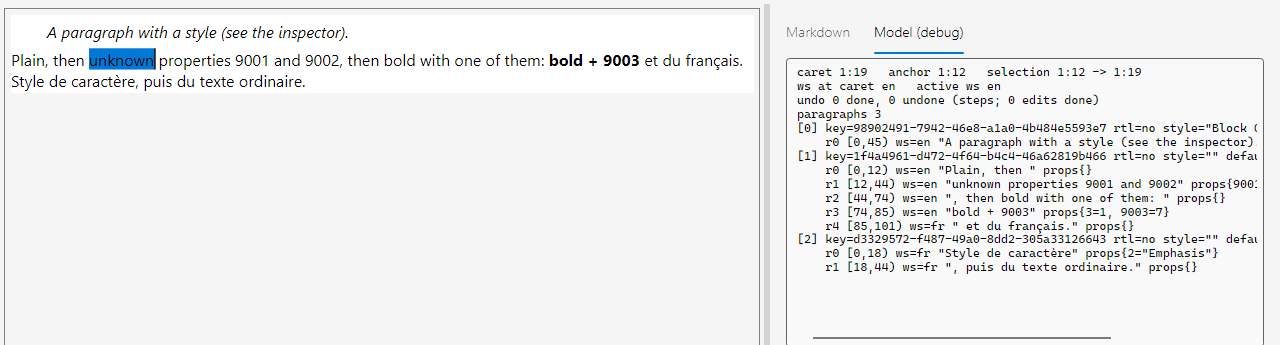
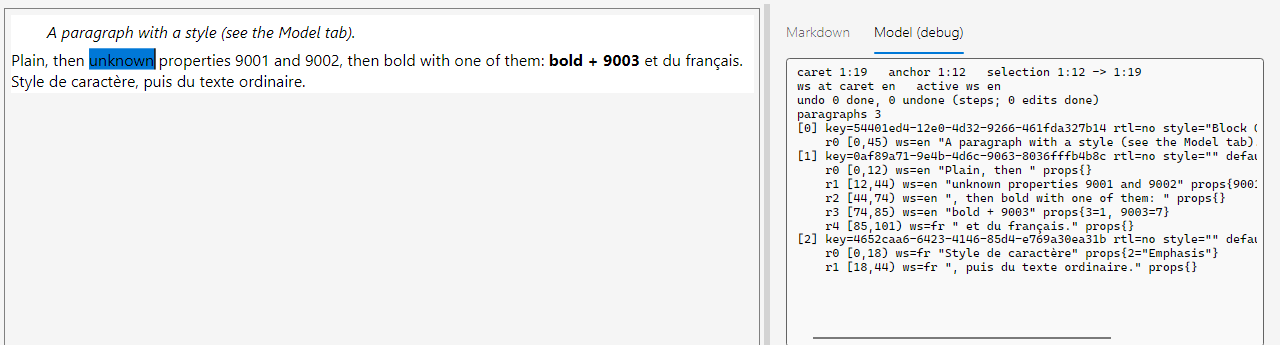
The manual tests, scenario texts and screenshot captions name the Markdown and Model tabs instead of the inspector.

diff --git a/docs/manual-testing.md b/docs/manual-testing.md
@@ -5,7 +5,7 @@ applications' clipboards and focus handoff in a real WinForms form. A person doe
 shared sample UI that all three hosts show. It is meant for a tester who has not seen the code.
 
 Write **PASS** or **FAIL** in the Result column of every step you do, and put what you saw in Notes when it differs
-from Expected. A step you could not do is **SKIP** with the reason. Copy the inspector or the event log (select the
+from Expected. A step you could not do is **SKIP** with the reason. Copy the Model tab or the event log (select the
 text, Ctrl+C) into a bug report; they are plain text and show exactly what the model holds.
 
 ## Start
@@ -32,7 +32,10 @@ Where a step says **all hosts**, do it on each of the three and write one result
   selection a button changes the selected text; with a caret it sets what you type next, as a keyboard switch would.
   Sample data only; nothing is read from a project.
 * **Field** (left): the editor. Ctrl+B, Ctrl+I, Ctrl+U, Ctrl+Z, Ctrl+Y, Ctrl+A, Ctrl+C, Ctrl+X and Ctrl+V work in it.
-* **Inspector** (top right): caret, anchor and selection as paragraph:offset; undo counts; every paragraph with its key (`(none)` until the host assigns one),
+* **Markdown tab** (top right, shown first): the field as FieldWorks Markdown, the form a person or an agent edits. Edit it and press
+  Apply to put it in the field as one undo step; an error, read-only text or a second paragraph in a single-paragraph field changes nothing
+  and says why. Revert shows the field again.
+* **Model tab** (beside the Markdown tab; click it for the steps below that read the model): caret, anchor and selection as paragraph:offset; undo counts; every paragraph with its key (`(none)` until the host assigns one),
   direction, style and runs. A run reads `r1 [9,13) ws=ar "text" props{3=1, 9001=42@1}`: offsets, writing system,
   text with escapes (`́` a combining mark, `\U0001F600` a surrogate pair, `` an object), then the property
   bag as `number=value`, `@n` for a variation. Documents over 30 paragraphs show a window around the caret.
@@ -43,18 +46,18 @@ Where a step says **all hosts**, do it on each of the three and write one result
 
 | # | Steps | Expected | D10 | D48 | W48 | Notes |
 |---|---|---|---|---|---|---|
-| 1.1 | Start. Click in the text of the first paragraph and type a few Latin letters. | Letters appear at the caret; the caret moves; `ws:` stays `en`; the inspector's run text and caret offset update with each key. | | | | |
-| 1.2 | Pick each scenario in turn. | Each loads without a delay you notice; the description under the toolbar changes; the inspector shows the new document; no text is clipped or overlaps. | | | | |
+| 1.1 | Start. Click in the text of the first paragraph and type a few Latin letters. | Letters appear at the caret; the caret moves; `ws:` stays `en`; the Model tab's run text and caret offset update with each key. | | | | |
+| 1.2 | Pick each scenario in turn. | Each loads without a delay you notice; the description under the toolbar changes; the Model tab shows the new document; no text is clipped or overlaps. | | | | |
 | 1.3 | In Latin and Arabic, click inside the Arabic word, then inside an English word. | `ws:` follows the caret (`ar`, then `en`); the log gets `would switch keyboard to ar` and `... to en`. | | | | |
-| 1.4 | Put a caret in English text, click the `fr` button, type `bonjour`. | `ws: fr`; the typed text is a new run `ws=fr` in the inspector. | | | | |
-| 1.5 | Click Default vernacular, type `habari`; then Default analysis. | `ws: swh`, then `ws: en`; run `ws=swh "habari"` in the inspector. | | | | |
+| 1.4 | Put a caret in English text, click the `fr` button, type `bonjour`. | `ws: fr`; the typed text is a new run `ws=fr` in the Model tab. | | | | |
+| 1.5 | Click Default vernacular, type `habari`; then Default analysis. | `ws: swh`, then `ws: en`; run `ws=swh "habari"` in the Model tab. | | | | |
 | 1.6 | Select a word with Shift+Right, click the `hi` button. | Only the selected text becomes `ws=hi` and is drawn in the Hindi font; the selection stays. Undo restores it. | | | | |
-| 1.7 | Select a word, press B, then B again; then Ctrl+I and Ctrl+U. | Bold, italic, underline are drawn; the inspector shows `props{3=1}` (bold), `2=1` (italic), `5=1` (underline); pressing B again removes it and the runs merge back. Paragraph keys do not change. | | | | |
-| 1.8 | Type, press Undo, Undo, Redo, Redo. Then Ctrl+Z and Ctrl+Y in the field. | Text, caret and the inspector's `undo n done, n undone` follow; the log says `undo requested (button)` or `(Ctrl+Z in the field)`. | | | | |
-| 1.9 | Press Enter in the middle of a paragraph, then Backspace at the start of the new one. | Two paragraphs, then one. The first keeps its key on a split and on the join; the new right-hand paragraph has `key=(none)` until the host assigns one (compare in the inspector). | | | | |
+| 1.7 | Select a word, press B, then B again; then Ctrl+I and Ctrl+U. | Bold, italic, underline are drawn; the Model tab shows `props{3=1}` (bold), `2=1` (italic), `5=1` (underline); pressing B again removes it and the runs merge back. Paragraph keys do not change. | | | | |
+| 1.8 | Type, press Undo, Undo, Redo, Redo. Then Ctrl+Z and Ctrl+Y in the field. | Text, caret and the Model tab's `undo n done, n undone` follow; the log says `undo requested (button)` or `(Ctrl+Z in the field)`. | | | | |
+| 1.9 | Press Enter in the middle of a paragraph, then Backspace at the start of the new one. | Two paragraphs, then one. The first keeps its key on a split and on the join; the new right-hand paragraph has `key=(none)` until the host assigns one (compare in the Model tab). | | | | |
 | 1.10 | Press Enter at the very start of a paragraph. | A new empty paragraph appears above; the new paragraph shows `key=(none)` and the original key stays on the paragraph that holds the text. | | | | |
 | 1.11 | Scenario *Inline picture*: put the caret after a picture, Backspace; press Picture to insert one; Delete before a picture. | A picture is deleted or inserted as one unit (one character, ``), never half. Works in the Arabic paragraph too. | | | | |
-| 1.12 | Scenario *Unknown properties*: select the whole second paragraph, press B twice, then split and join it with Enter and Backspace. | Properties 9001, 9002, 9003 and the paragraph style are still in the inspector, unchanged. | | | | |
+| 1.12 | Scenario *Unknown properties*: select the whole second paragraph, press B twice, then split and join it with Enter and Backspace. | Properties 9001, 9002, 9003 and the paragraph style are still in the Model tab, unchanged. | | | | |
 
 ## 2. Keyboard layout switching on caret moves (all hosts)
 
@@ -73,7 +76,7 @@ Add the input methods under Settings, Time and language, Language: Japanese (Mic
 | # | Steps | Expected | D10 | D48 | W48 | Notes |
 |---|---|---|---|---|---|---|
 | 3.1 | Type a sentence of English, French accents (AltGr or a French layout) and punctuation. | Everything appears as typed; dead keys compose (`e` after `^`); no doubled or lost letters. | | | | |
-| 3.2 | Japanese IME: in the *Empty* scenario type `nihongo`. | The composition shows inline with an underline; the candidate window sits at the caret; Space cycles candidates; Enter commits the text into the field; the inspector shows it only after the commit. | | | | |
+| 3.2 | Japanese IME: in the *Empty* scenario type `nihongo`. | The composition shows inline with an underline; the candidate window sits at the caret; Space cycles candidates; Enter commits the text into the field; the Model tab shows it only after the commit. | | | | |
 | 3.3 | Same, then press Esc during composition. | The composition disappears and nothing is inserted. | | | | |
 | 3.4 | Chinese Pinyin: type `zhongwen`. | Same as 3.2. | | | | |
 | 3.5 | Compose while the caret is inside Arabic text, then in the RTL paragraph. | The composition appears at the caret, the candidate window is not left behind, the committed text lands at the caret. | | | | |
@@ -85,7 +88,7 @@ Add the input methods under Settings, Time and language, Language: Japanese (Mic
 | # | Steps | Expected | D10 | D48 | W48 | Notes |
 |---|---|---|---|---|---|---|
 | 4.1 | Select the Keyman keyboard, type a sequence in the *Empty* scenario. | The result matches typing the same keys in Notepad. | | | | |
-| 4.2 | Type a sequence in which a later key rewrites earlier characters (reorder, or replace the last syllable). | The earlier characters are changed correctly: the field reports its surrounding text to the keyboard. Check the inspector for stray characters. | | | | |
+| 4.2 | Type a sequence in which a later key rewrites earlier characters (reorder, or replace the last syllable). | The earlier characters are changed correctly: the field reports its surrounding text to the keyboard. Check the Model tab for stray characters. | | | | |
 | 4.3 | Move the caret into the middle of existing text and type the same sequence. | Same result as at the end of the text. | | | | |
 
 ## 5. Right-to-left: caret and selection by mouse and arrows (all hosts)
@@ -96,10 +99,10 @@ caret about two characters from where you clicked (fixed in Avalonia 12). Record
 | # | Steps | Expected | D10 | D48 | W48 | Notes |
 |---|---|---|---|---|---|---|
 | 5.1 | In the all-Arabic paragraph press Home, then Left repeatedly. | Arrows are logical (as in FieldWorks): in a right-to-left paragraph Left goes forward through the text, so the caret moves to the left on screen, one cluster at a time, never inside a joined letter. Right goes back. | | | | |
-| 5.2 | Press Left repeatedly across an English word inside the RTL paragraph, then Right back. | Left walks the text in logical order and Right reverses it, one cluster per key, never skipping or repeating an offset (check the inspector). Inside the English word the caret moves right on screen for Left, and at the language boundary it may jump across the line: that is expected, FieldWorks does the same. | | | | |
+| 5.2 | Press Left repeatedly across an English word inside the RTL paragraph, then Right back. | Left walks the text in logical order and Right reverses it, one cluster per key, never skipping or repeating an offset (check the Model tab). Inside the English word the caret moves right on screen for Left, and at the language boundary it may jump across the line: that is expected, FieldWorks does the same. | | | | |
 | 5.3 | Click in the middle of an Arabic word. | The caret is where you clicked (D10). On D48 and W48 it may be two characters off: note it (known). | | | | |
-| 5.4 | Click and drag across the boundary between Arabic and English text. | The selection is one visual block or the correct set of blocks for the logical range; the inspector's `selection a -> b` matches the highlight. | | | | |
-| 5.5 | Shift+Left and Shift+Right from the middle of the RTL paragraph, then the same in an LTR paragraph. | Shift+Left grows the selection forward in the RTL paragraph (backward in LTR), Shift+Right the reverse; the inspector's caret offset moves by one cluster per key and the anchor stays. | | | | |
+| 5.4 | Click and drag across the boundary between Arabic and English text. | The selection is one visual block or the correct set of blocks for the logical range; the Model tab's `selection a -> b` matches the highlight. | | | | |
+| 5.5 | Shift+Left and Shift+Right from the middle of the RTL paragraph, then the same in an LTR paragraph. | Shift+Left grows the selection forward in the RTL paragraph (backward in LTR), Shift+Right the reverse; the Model tab's caret offset moves by one cluster per key and the anchor stays. | | | | |
 | 5.6 | Scenario *Inline picture*: arrow across the picture in the Arabic paragraph. | The caret passes the picture in one step. (Known: the picture may sit in the wrong place in RTL text on both Avalonia versions.) | | | | |
 | 5.7 | Scenario *Devanagari, Tamil, Thai*: arrow and Backspace through conjuncts and stacked marks. | The caret stops between clusters, never inside; Backspace removes what the language expects (compare with Notepad). | | | | |
 | 5.8 | Scenario *Latin and Arabic*, LTR paragraph with Arabic inside: put the caret just before the Arabic word, press Right once; then click after it, press Left until you are back at the same offset. | The offset is the same but the caret is drawn on different sides of the boundary, depending on the direction you arrived from. | | | | |
@@ -114,12 +117,12 @@ Scenario *NFD, marks, surrogates, PUA* (it sets the field's normalisation form t
 | 5a.1 | Type `e`, then a combining acute (or a keyboard that sends it), then Backspace. | Only the accent goes; `e` stays. | | | | |
 | 5a.2 | Put the caret before a letter with two marks after it (`e` plus acute plus circumflex) and press Delete. | The letter and both marks go in one press. | | | | |
 | 5a.3 | Backspace after an emoji (a surrogate pair), and Delete before one. | The whole emoji goes each time, never half. | | | | |
-| 5a.4 | With NFD set, type or paste a precomposed `é` (U+00E9). | The inspector shows two code points (`e` plus U+0301); the caret is after both. | | | | |
+| 5a.4 | With NFD set, type or paste a precomposed `é` (U+00E9). | The Model tab shows two code points (`e` plus U+0301); the caret is after both. | | | | |
 | 5a.5 | With NFD set, copy `é` and paste it into Notepad, then check its form (for instance by Backspace: one press removes the whole `é`). | Notepad receives the precomposed form (NFC). Pasting back into the field inside the same window keeps the stored NFD. | | | | |
 
 ## 6. Tab and focus in and out of the WinForms host (W48)
 
-Tab order is: first WinForms TextBox, the playground field, second WinForms TextBox. The toolbar and the inspector
+Tab order is: first WinForms TextBox, the playground field, second WinForms TextBox. The toolbar and the tabs
 are not tab stops (click them).
 
 | # | Steps | Expected | D10 | D48 | W48 | Notes |
@@ -129,7 +132,7 @@ are not tab stops (click them).
 | 6.3 | Press Shift+Tab twice. | Focus returns to the field, then to the first TextBox. | n/a | n/a | | |
 | 6.4 | In the field press Left, Right, Up, Down, Home, End, Backspace, Delete, Ctrl+A, Ctrl+C, Ctrl+X, Ctrl+V, Ctrl+Z, Ctrl+Y. | Each acts in the field; none moves WinForms focus or beeps; Enter makes a new paragraph and does not press a default button. | n/a | n/a | | |
 | 6.5 | Click a toolbar button (Bold), then type. | Focus stays in the field; typing continues. | | | | |
-| 6.6 | In the Many fields scenario click different fields, then Tab. | The inspector and `ws:` follow the clicked field; Tab leaves the control rather than walking through every field (note what it does). | n/a | n/a | | |
+| 6.6 | In the Many fields scenario click different fields, then Tab. | The Model tab and `ws:` follow the clicked field; Tab leaves the control rather than walking through every field (note what it does). | n/a | n/a | | |
 | 6.7 | Alt+Tab to another program and back. | The caret returns to the field where it was; typing works at once. | | | | |
 | 6.8 | D10 and D48: press Tab in the field. | Focus leaves the field (the toolbar is not a tab stop), or stays; note which. | | | n/a | |
 
@@ -150,8 +153,8 @@ only by the playground and the tests) and plain text. A FieldWorks host also cop
 |---|---|---|---|---|---|---|
 | 8.1 | Select text in *Latin and Arabic* that crosses the English/Arabic boundary, Copy, paste into Notepad. | The plain text arrives, in logical order, with paragraph breaks as line breaks. | | | | |
 | 8.2 | Same, paste into Word. | The text arrives. (Formatting need not.) | | | | |
-| 8.3 | Type text in Notepad and in Word (with some Arabic), copy it, Paste in the field. | The text appears at the caret in the active writing system; the inspector shows it as one run; a selection is replaced. | | | | |
-| 8.4 | Select bold and fr text in the field, Copy, move the caret, Paste. | The pasted runs keep their writing systems and bold (compare the inspector before and after). | | | | |
+| 8.3 | Type text in Notepad and in Word (with some Arabic), copy it, Paste in the field. | The text appears at the caret in the active writing system; the Model tab shows it as one run; a selection is replaced. | | | | |
+| 8.4 | Select bold and fr text in the field, Copy, move the caret, Paste. | The pasted runs keep their writing systems and bold (compare the Model tab before and after). | | | | |
 | 8.5 | *Unknown properties*: copy a run with 9001/9002/9003, paste it into another paragraph. | The properties come with the text, unchanged. | | | | |
 | 8.6 | Copy in one host window, paste in another (run `run desktop10` and `run desktop48`). | The runs and properties arrive. | | | | |
 | 8.7 | Cut with a selection across paragraphs, then Undo. | The text and paragraph keys return. | | | | |
@@ -164,7 +167,7 @@ only by the playground and the tests) and plain text. A FieldWorks host also cop
 |---|---|---|---|---|---|---|
 | 9.1 | Drag-resize the window quickly; scroll the *Long document* with the wheel and the scrollbar. | No white flashes or tearing; text re-wraps; the caret stays on the same character. | | | | |
 | 9.2 | Move the window to a monitor at 150 percent (or change the scale), or set the scale to 150 percent. | Text is sharp; the caret and selection stay aligned with the glyphs; the picture is not blurry. | | | | |
-| 9.3 | *Long document*: press Ctrl+End, type, press Ctrl+Home. | The view follows the caret; typing is not slower than in a short document; the inspector shows a window around the caret. | | | | |
+| 9.3 | *Long document*: press Ctrl+End, type, press Ctrl+Home. | The view follows the caret; typing is not slower than in a short document; the Model tab shows a window around the caret. | | | | |
 | 9.4 | *Many fields* with 1000 fields (Fields picker, then pick the scenario again): scroll and type in a field far down. | The window stays usable. Record how long it takes to load and whether scrolling stutters. | | | | |
 | 9.5 | Select all (Ctrl+A) in the *Long document* and press B. | It finishes in a reasonable time; Undo restores it in one step. | | | | |
 | 9.6 | Switch Windows between light, dark and a high contrast theme (Settings, Accessibility, Contrast themes) while the playground is open, with the fields' Foreground and Background not set. | The text and page follow at once, without a pause: in high contrast the page is the system window colour, the text the window text colour and a selection the highlight colour. Record anything unreadable. A field whose host set both colours keeps them (the host's choice, docs/reference/rendering.md, "Colours and themes"). | | | | |
@@ -179,9 +182,9 @@ Ctrl+Left goes to the next word.
 
 | # | Steps | Expected | D10 | D48 | W48 | Notes |
 |---|---|---|---|---|---|---|
-| 10.1 | Click in the middle of an English word, then on the left half and the right half of one letter. | The caret appears at the nearer side of the letter; no selection; the inspector shows `selection none`. | | | | |
+| 10.1 | Click in the middle of an English word, then on the left half and the right half of one letter. | The caret appears at the nearer side of the letter; no selection; the Model tab shows `selection none`. | | | | |
 | 10.2 | Click at the edge between English and Arabic text, first on one side of the boundary and then on the other. | The caret is drawn on the side you clicked (two different places can be the same offset); typing there continues the text you clicked next to. | | | | |
-| 10.3 | Click a word, then Shift+click further on, then Shift+click before the anchor. | The selection grows from the first click, flips when you pass the anchor, and the inspector's `anchor` never moves. | | | | |
+| 10.3 | Click a word, then Shift+click further on, then Shift+click before the anchor. | The selection grows from the first click, flips when you pass the anchor, and the Model tab's `anchor` never moves. | | | | |
 | 10.4 | Drag from the middle of one paragraph to the middle of a later one, then drag back up past the start of the document and down past the end. | Everything between is highlighted, including the whole middle paragraphs; going past the edges selects to the start or the end. | | | | |
 | 10.5 | Double-click an English word, an Arabic word, a space and a comma. | The word, the Arabic word, the space run and the punctuation are selected, nothing more. Double-click on the last letter of a word, right half, still picks that word. | | | | |
 | 10.6 | Double-click a word and, holding the second press, drag over two more words. | The selection grows a whole word at a time, in both directions. | | | | |
@@ -190,8 +193,8 @@ Ctrl+Left goes to the next word.
 | 10.9 | From the End position in 10.8 press Up, Down, Down. | Each key moves one visual line. After a short line the caret returns to about the original horizontal position (the preferred position), not to the short line's end. | | | | |
 | 10.10 | Click in a wrapped line just right of its last word. | The caret is drawn at the end of that line, not at the start of the next line. | | | | |
 | 10.11 | Ctrl+Right and Ctrl+Left through an English sentence, then through the Arabic paragraph; add Shift. | The caret jumps a word at a time (English: to the start of the next word); at the end of a paragraph the next press enters the neighbouring paragraph; with Shift the selection follows. | | | | |
-| 10.12 | Ctrl+Home, Ctrl+End, Ctrl+A, and with Shift for the first two. | The caret goes to the very start and end of the document; Ctrl+A selects everything, and the inspector shows `selection 0:0 -> last:end`. | | | | |
-| 10.13 | Select across three paragraphs with the mouse and press Delete (or Backspace, or type a letter). | One paragraph is left holding the text before and after the selection; its key in the inspector is the first paragraph's key (unless the first part was empty, then the last paragraph's key). Undo restores all three. | | | | |
+| 10.12 | Ctrl+Home, Ctrl+End, Ctrl+A, and with Shift for the first two. | The caret goes to the very start and end of the document; Ctrl+A selects everything, and the Model tab shows `selection 0:0 -> last:end`. | | | | |
+| 10.13 | Select across three paragraphs with the mouse and press Delete (or Backspace, or type a letter). | One paragraph is left holding the text before and after the selection; its key in the Model tab is the first paragraph's key (unless the first part was empty, then the last paragraph's key). Undo restores all three. | | | | |
 
 ## 11. Host hooks: find and replace, context menu, paging (all hosts)
 
@@ -219,8 +222,8 @@ whether completion works with an input method or Keyman active, and whether the 
 
 | # | Steps | Expected | D10 | D48 | W48 | Notes |
 |---|---|---|---|---|---|---|
-| 12.1 | Load the scenario and look at `/ [V] _ #`. | One line. The slash is outlined, `[V]` is a blue chip, `_` a purple chip, `#` an orange one, each behind the plain text; nothing changes in the inspector's runs. | | | | |
-| 12.2 | Type `/ [X] _`. | `[X]` gets a red outline and a red squiggle under the X; the log shows `fwmd.env.unknown-class`. Nothing about the squiggle is in the inspector. | | | | |
+| 12.1 | Load the scenario and look at `/ [V] _ #`. | One line. The slash is outlined, `[V]` is a blue chip, `_` a purple chip, `#` an orange one, each behind the plain text; nothing changes in the Model tab's runs. | | | | |
+| 12.2 | Type `/ [X] _`. | `[X]` gets a red outline and a red squiggle under the X; the log shows `fwmd.env.unknown-class`. Nothing about the squiggle is in the Model tab. | | | | |
 | 12.3 | Rest the pointer on the class `[V]`, then on the red squiggle. | A tooltip: `Natural class V: Vowels.`; for the squiggle, the problem's message. | | | | |
 | 12.4 | Press Enter, then Shift+Enter. | Enter: the log says it was passed to the host; Shift+Enter does nothing. The text stays one line. | | | | |
 | 12.5 | Clear the box, press Ctrl+Space. | A popup under the caret offers `/`. Down, Up move the highlight; Tab accepts (focus stays in the field) and the text is `/ `. | | | | |

diff --git a/docs/images/README.md b/docs/images/README.md
@@ -21,7 +21,7 @@ $env:TEXTEDITING_SCREENSHOTS=1; dotnet test tests\SIL.TextEditing.Playground.Tes
 - `spelling-context-menu.png`: the context menu on a misspelled word: the word, its suggestions, Find, Cut, Copy, Paste and Copy as.
 - `copy-as-submenu.png`: the "Copy as" submenu open (plain text, a debug dump of the runs, and a disabled Markdown entry when no converter is registered).
 - `block-features.png`: a heading, a bulleted list and a table (as table-styled paragraphs, one column for now) with the Tables, Lists and Headings switches visible and on.
-- `long-document.png`: the 200-paragraph scenario scrolled to the caret in the middle, mixed writing systems; the Markdown tab shows the document as FieldWorks Markdown.
+- `long-document.png`: the 200-paragraph scenario scrolled to the caret in the middle, mixed writing systems; the Markdown tab shows the document as FieldWorks Markdown from its start.
 - `many-fields.png`: fifty small fields in one window, in English, French, Swahili and Arabic.
 
 ## The real windows
